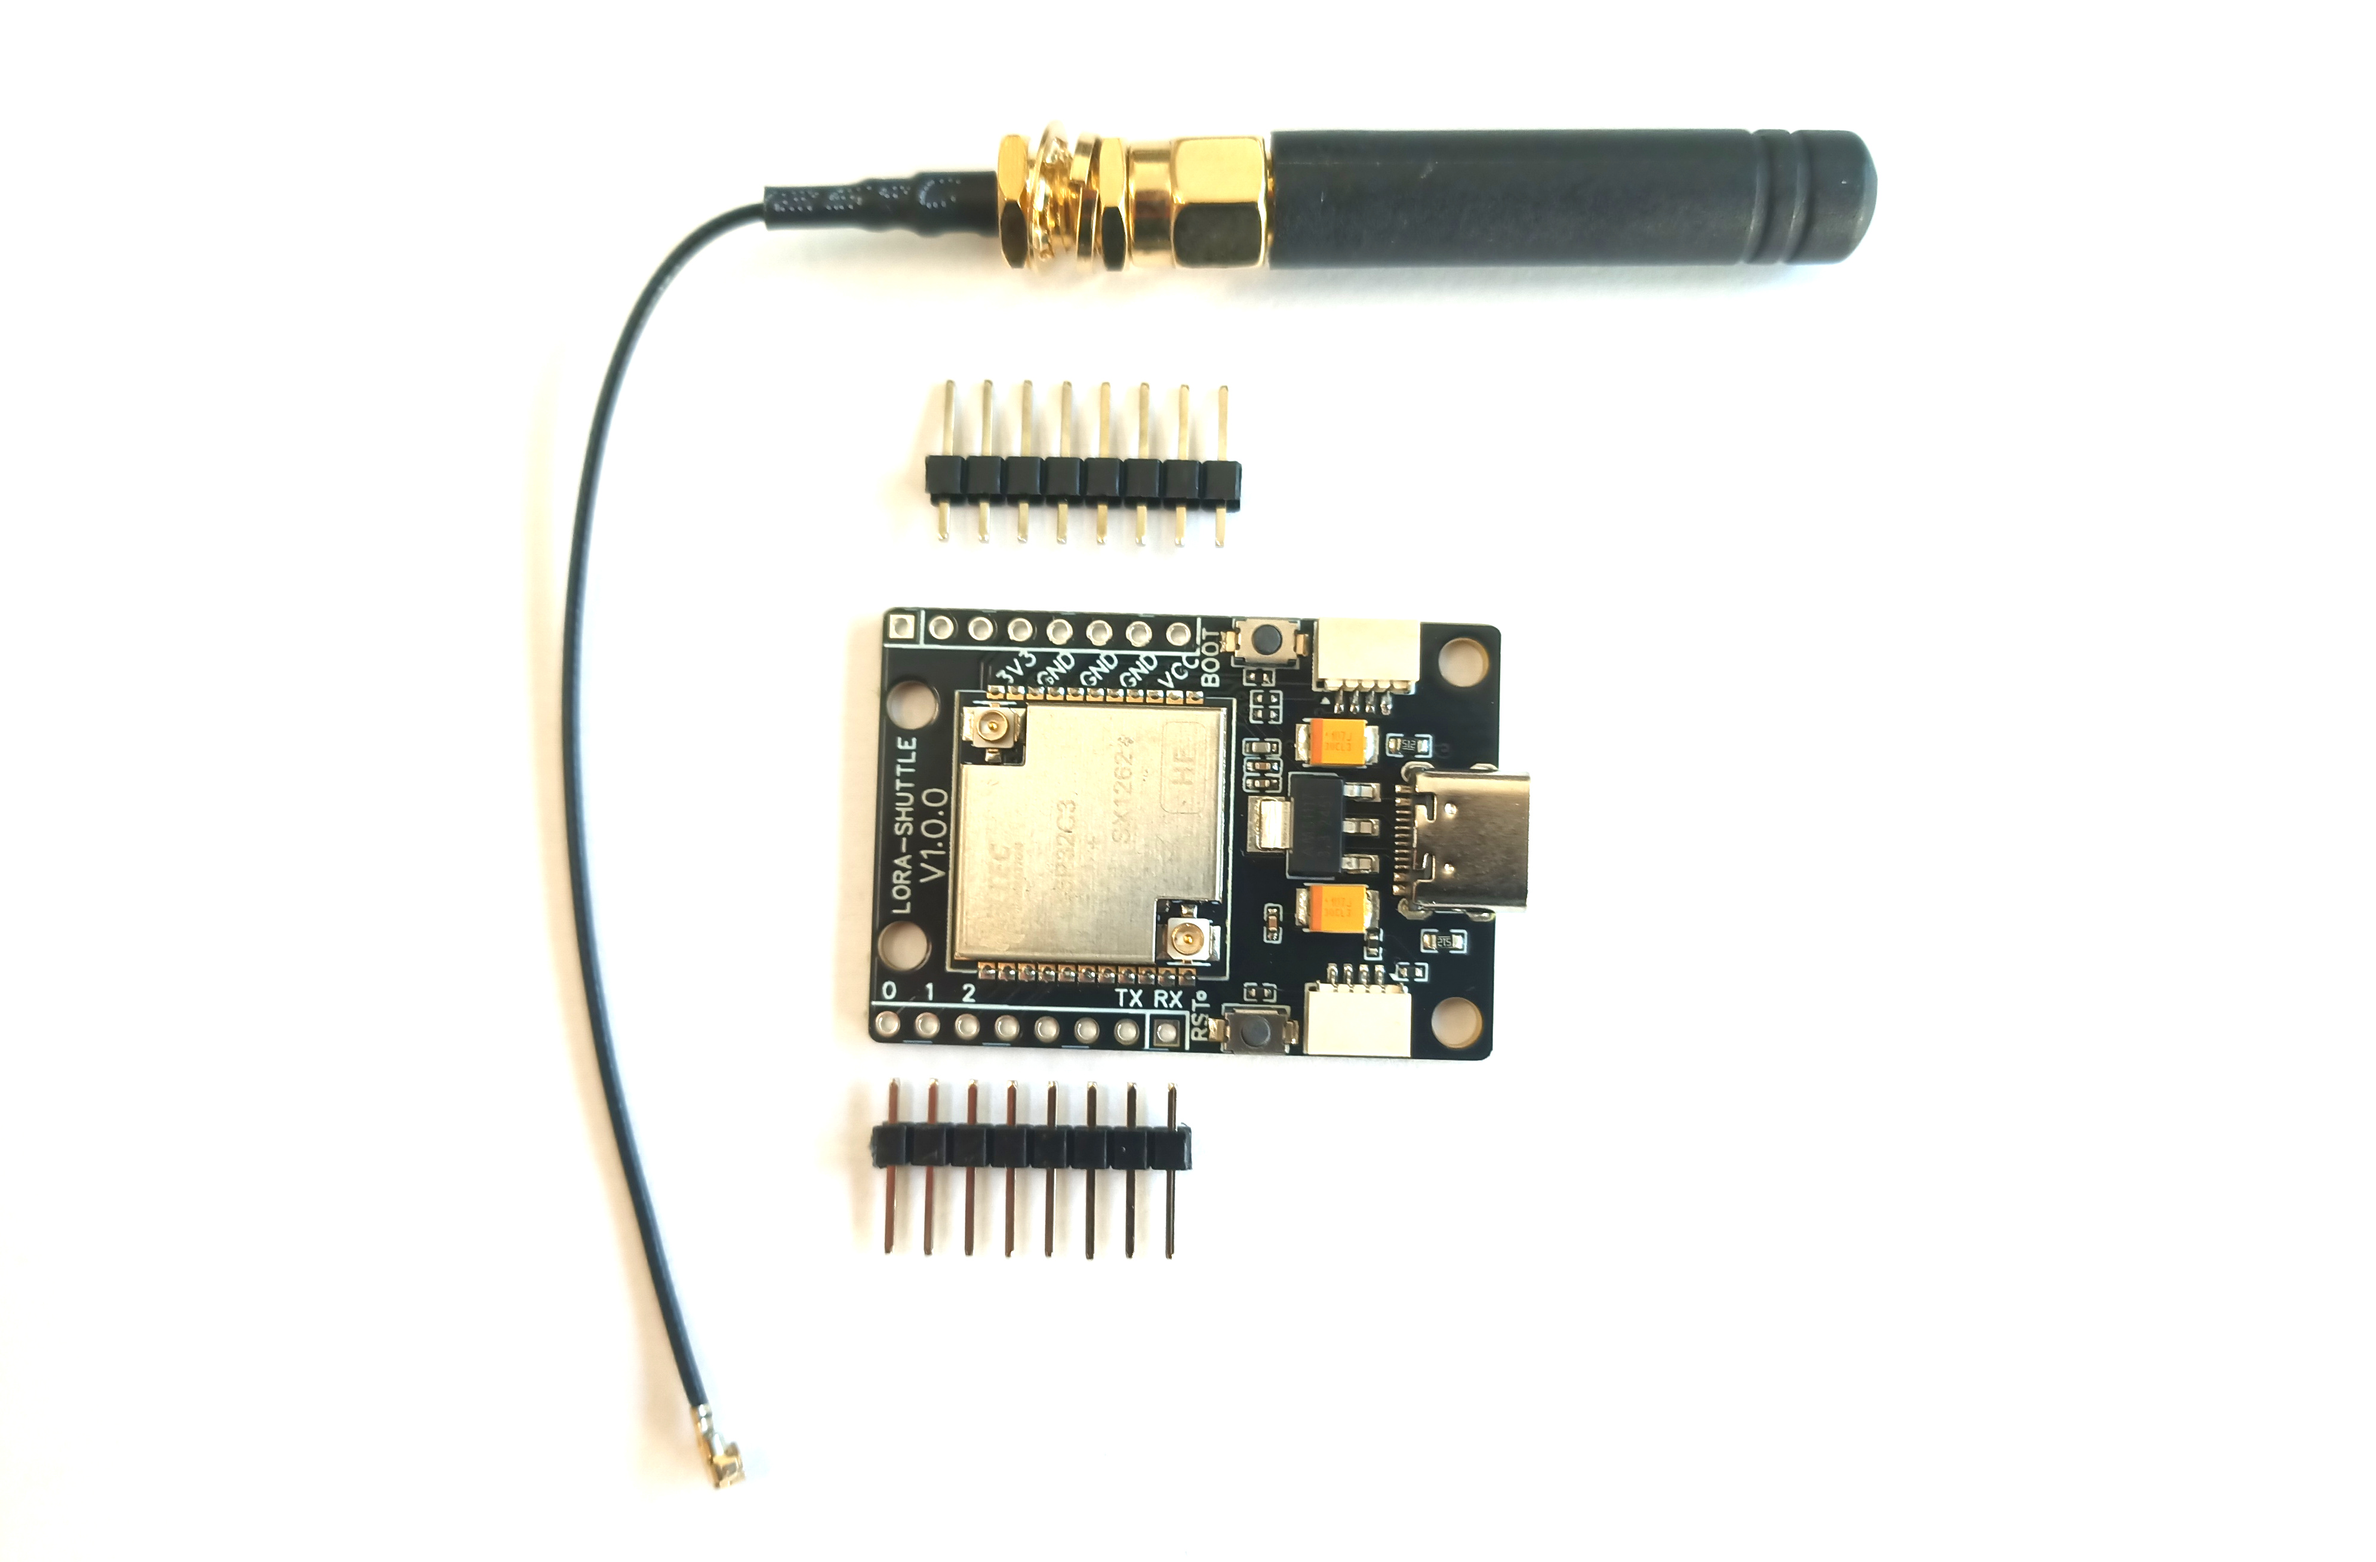
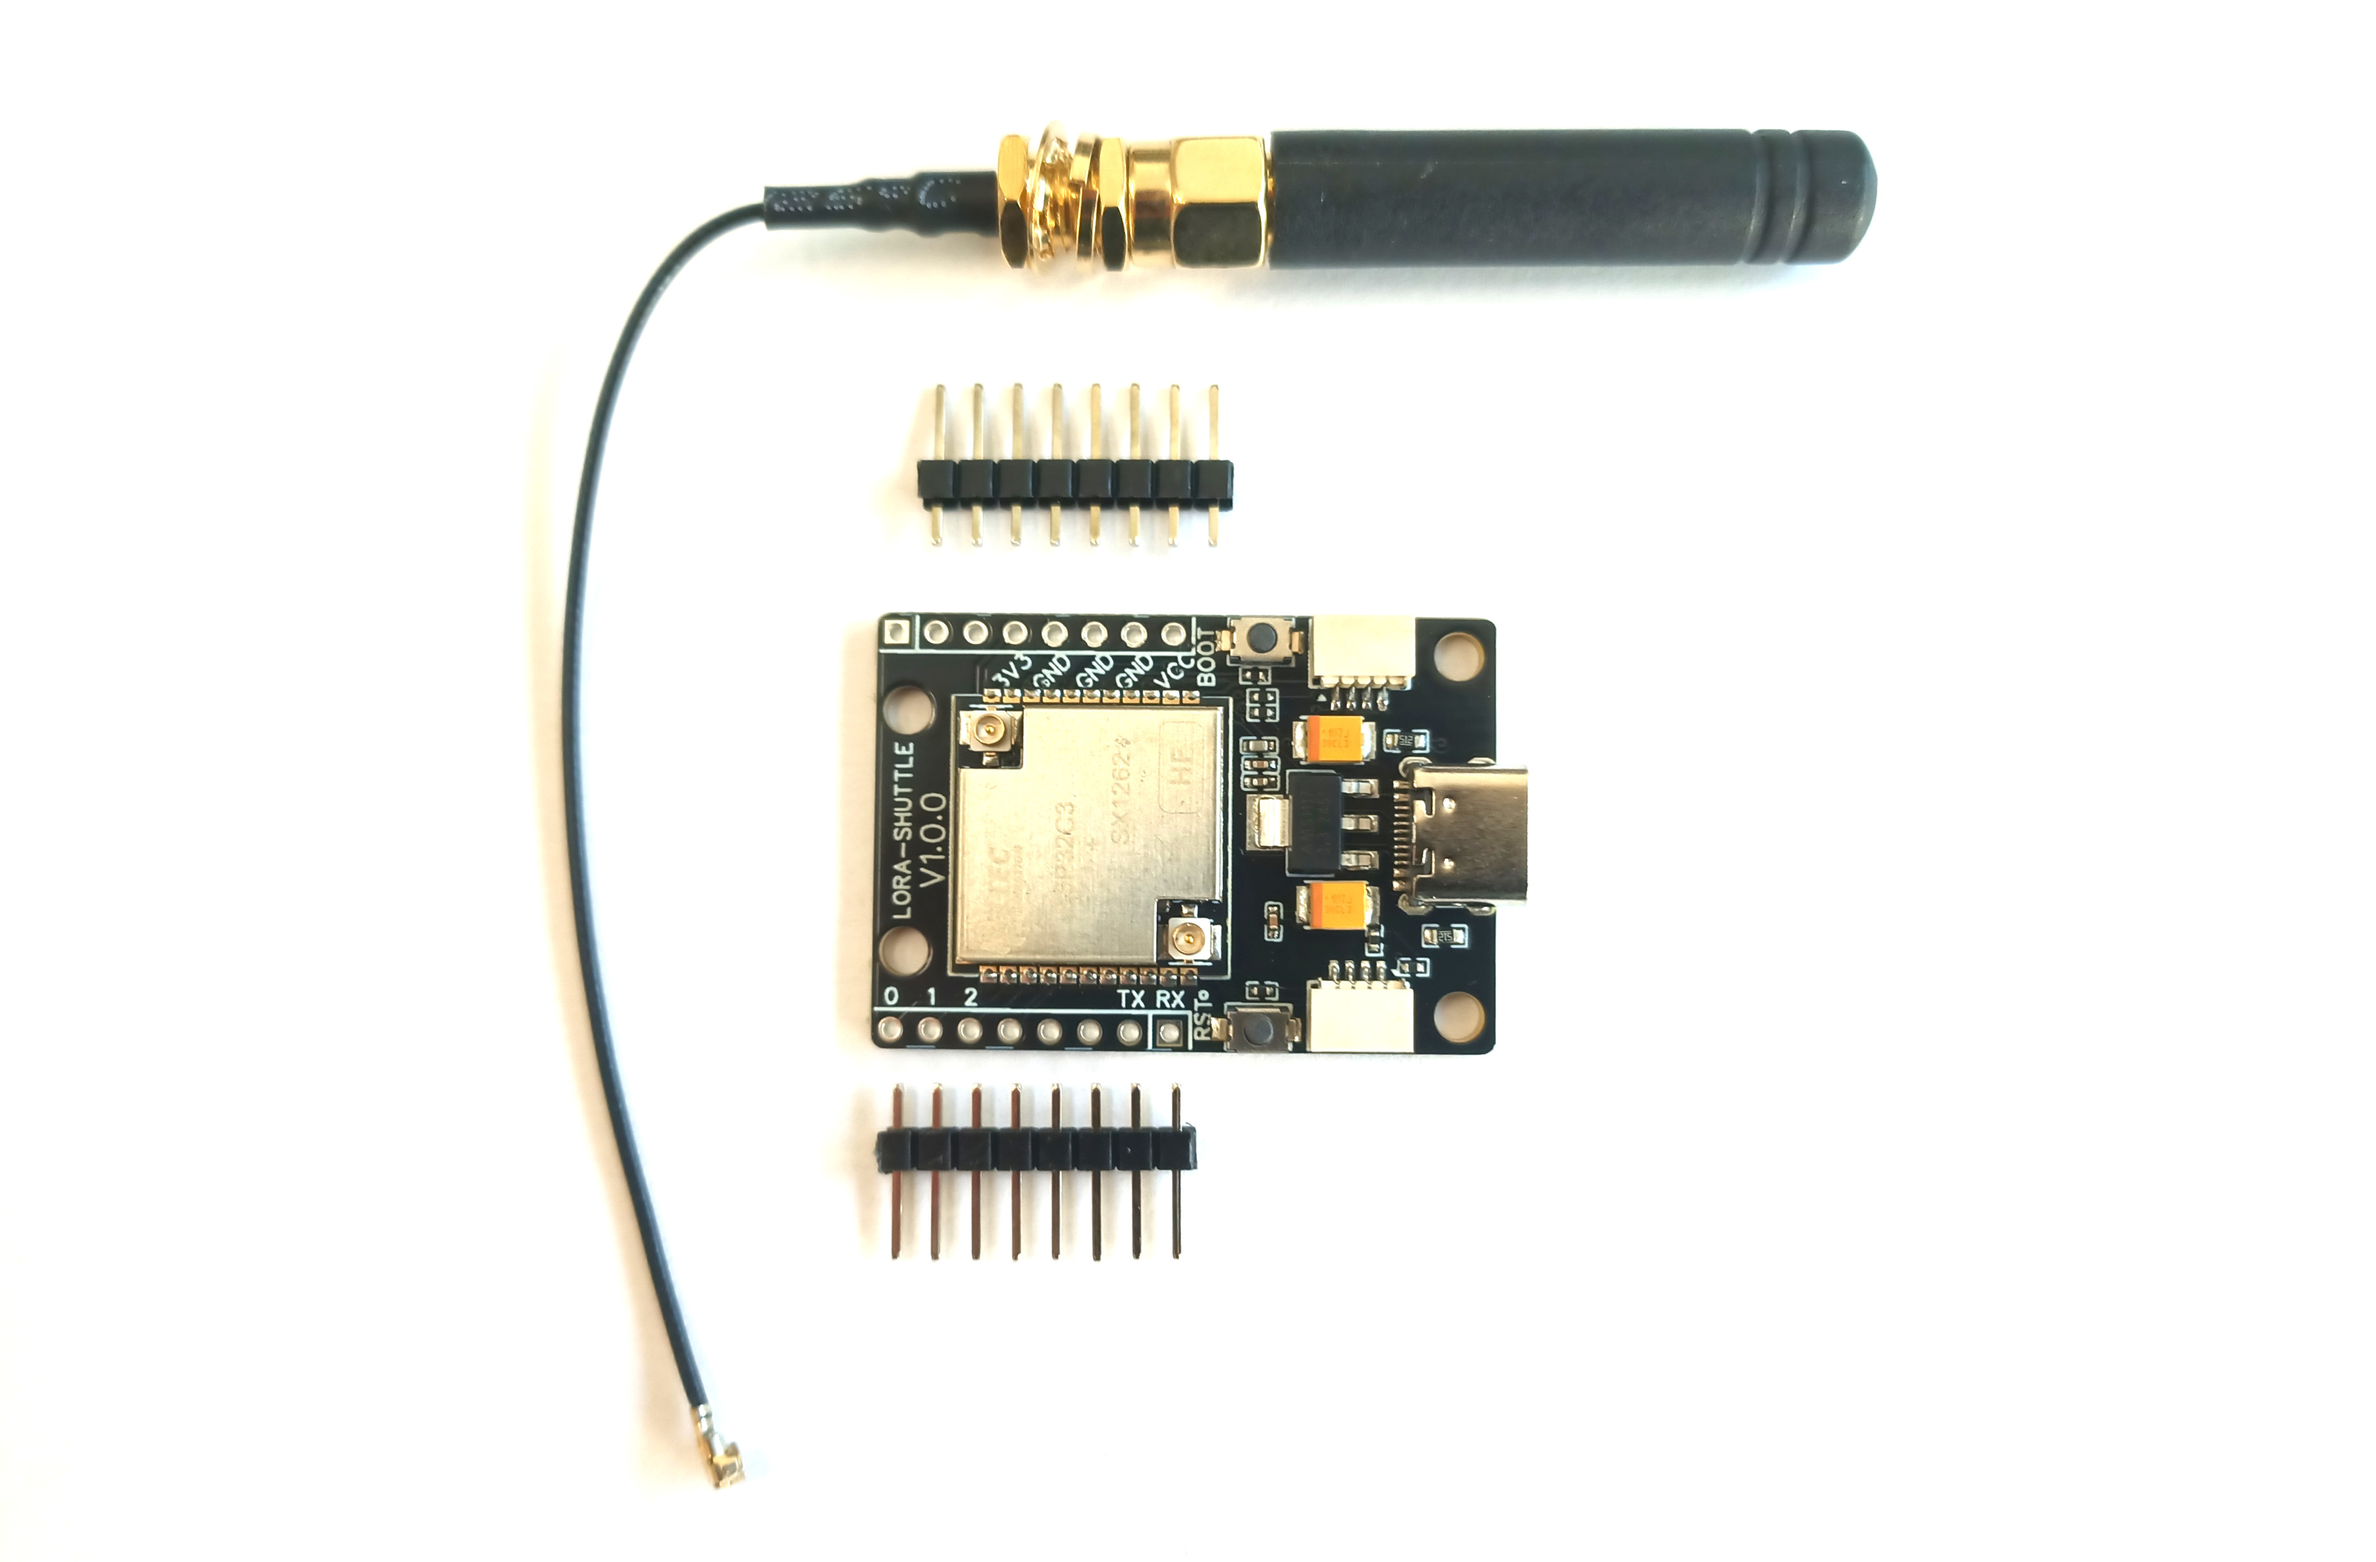
better pic

Changed region(s): [[0.3427, 0.2477, 0.6543, 0.805]]

diff --git a/README.md b/README.md
@@ -1,6 +1,6 @@
 # Lora-Shuttle-examples
 
-![Lora Shuttle](images/top.jpg)
+![Lora Shuttle](images/top1.jpg)
 
 This repo contains code examples for the Lora Shuttle devboard designed around HT-CT62 module. The module is basically Esp32-C3 + SX1262. Don't forget to set your lorawan region in tools before the compilation, I've tested the board on EU868.
 
